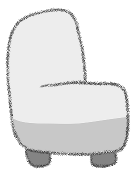
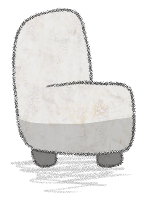
Finalized overworld assets + walk anim imported

diff --git a/Assets/_PROJECT/2_Scripts/Player/PlayerController.cs b/Assets/_PROJECT/2_Scripts/Player/PlayerController.cs
@@ -21,6 +21,9 @@ public class PlayerController : MonoBehaviour
     [SerializeField]
     private PlayerMovementSO _movementStats;
 
+    [SerializeField]
+    private AnimationClip _walkAnimation;
+
     private bool _playerCanMove = true;
 
     private Vector2 _movementVector;
